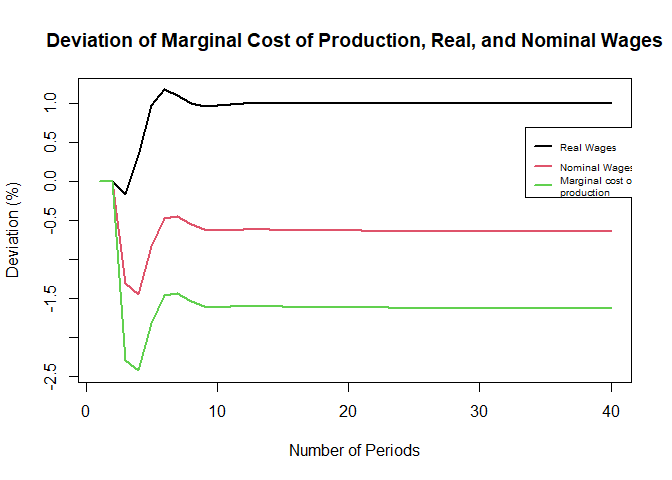
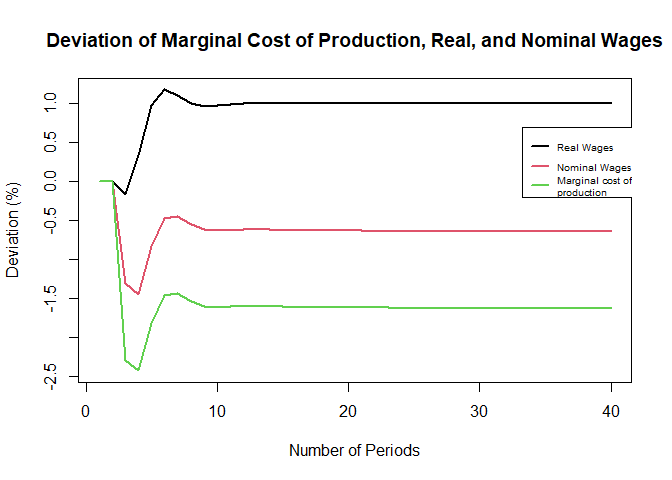
Adding clarity to one of the plots

Changed region(s): [[0.8125, 0.2812, 0.9375, 0.4062]]

diff --git a/Title.md b/Title.md
@@ -864,7 +864,7 @@ unit cost of production.
 ``` r
 ts.plot(cbind((100*(shock_p$W[1:40]/shock_p$W[1]-1)), (100*(shock_p$Wn[1:40]/
 shock_p$Wn[1]-1)), (100*(shock_p$UCn[1:40]/shock_p$UCn[1]-1))),main="Deviation of Marginal Cost of Production, Real, and Nominal Wages",col=1:3,lwd=2, xlab = "Number of Periods", ylab ="Deviation (%)")
-legend(x=33.5, y=0.7, legend=c("Real Wages", "Nominal Wages", "Marginal cost of
+legend(x=33.25, y=0.7, legend=c("Real Wages", "Nominal Wages", "Marginal cost of
 production"), col=1:3, lty=1,lwd=2, cex=0.6)
 ```
 
